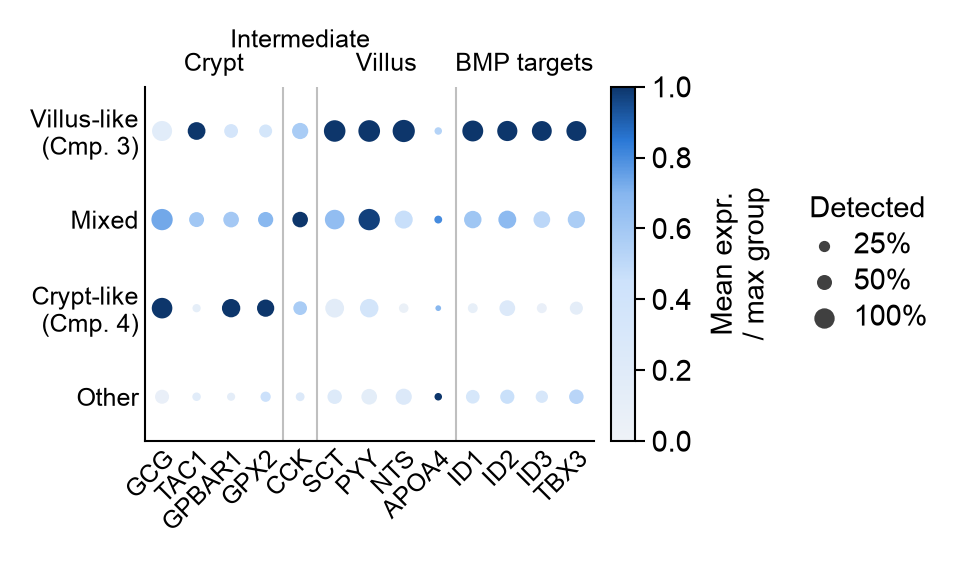
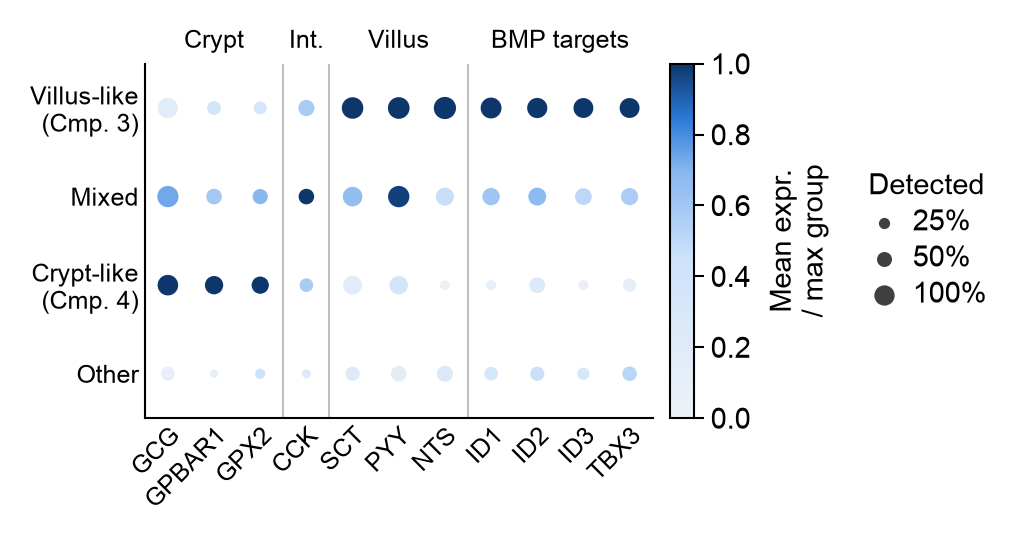
Fig 5K: drop TAC1 and APOA4, abbreviate Int., widen to the row's spare width
Claude-Session: https://claude.ai/code/session_018NQf3ALEGq4jzZg4aftdBf

diff --git a/cccrise/figures/figure5/hormone_extreme_markers.py b/cccrise/figures/figure5/hormone_extreme_markers.py
@@ -12,11 +12,11 @@ from scipy.stats import false_discovery_control, mannwhitneyu
 from .. import common
 from . import _common as S
 
-AXES = ("mid",)
+AXES = ("mid_wide",)
 SECTIONS = {
-    "Crypt": ["GCG", "TAC1", "GPBAR1", "OLFM4", "GPX2"],
-    "Intermediate": ["CCK"],
-    "Villus": ["SCT", "PYY", "NTS", "ALPI", "APOA4", "APOC3"],
+    "Crypt": ["GCG", "GPBAR1", "OLFM4", "GPX2"],
+    "Int.": ["CCK"],
+    "Villus": ["SCT", "PYY", "NTS", "ALPI", "APOC3"],
     "BMP targets": ["ID1", "ID2", "ID3", "TBX3"],
 }
 EXTREMES = ("Villus-like", "Crypt-like")

diff --git a/cccrise/figures/style.py b/cccrise/figures/style.py
@@ -95,6 +95,8 @@ AXIS_SIZE = {
     "rect_half": (AXIS_WIDTH / 2, AXIS_HEIGHT),
     # Between square and rect, for a row of three wider strips
     "mid": (38 * MM, AXIS_HEIGHT),
+    # A "mid" widened into the spare width of its row (a dot plot of many genes)
+    "mid_wide": (43 * MM, AXIS_HEIGHT),
     # Two to a row, wider than rect
     "half": (64 * MM, AXIS_HEIGHT),
     # A labeled map of every lineage, beside a 2 x 2 of squares

diff --git a/cccrise/runners/run_ibd_programs.py b/cccrise/runners/run_ibd_programs.py
@@ -96,7 +96,7 @@ EE_GENES = [
         "TRPM5",
     ],
     *["ARX", "ISL1", "PAX6", "GPBAR1", "ID1", "ID2", "ID3", "SMAD6", "SMAD7", "BAMBI"],
-    *["OLFM4", "GPX2", "ALPI", "APOA4", "APOC3", "TBX3"],
+    *["OLFM4", "GPX2", "ALPI", "APOC3", "TBX3"],
     *["NPY1R", "GLP1R"],
 ]
 #: Genes the C1/C5 high-sender dot plot shows
